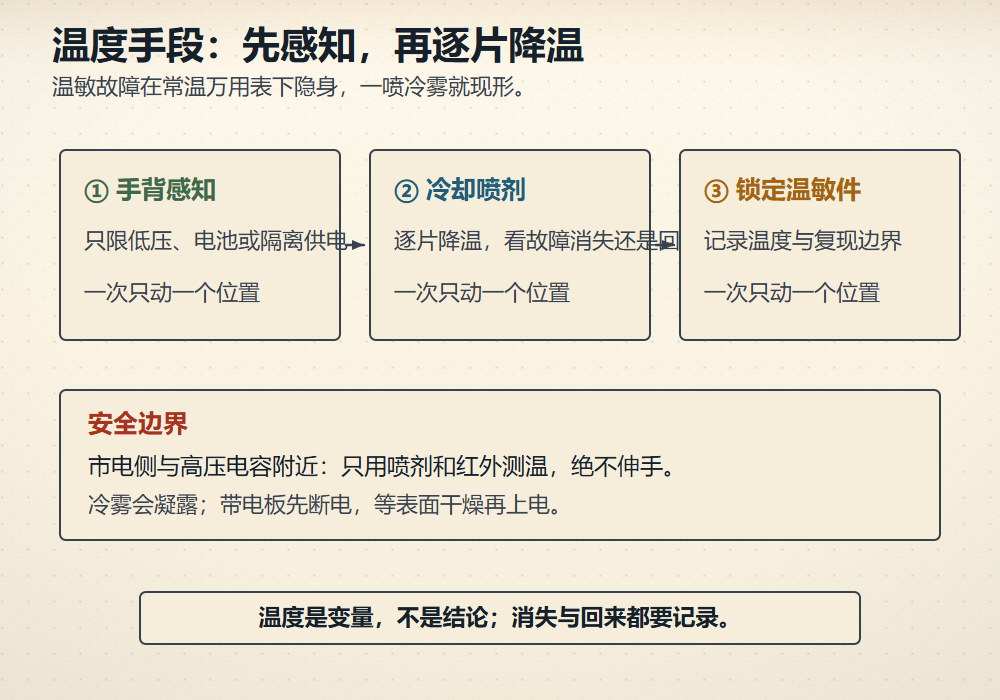
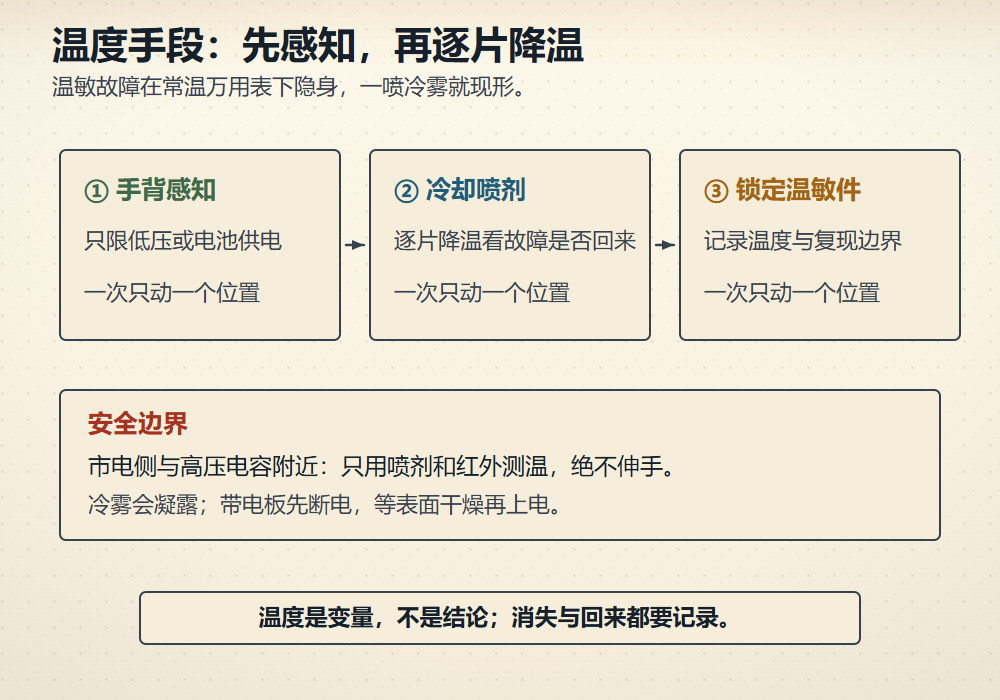
visual: shorten ch18 temp-spray labels to fit cards

Changed region(s): [[0.465, 0.33, 0.682, 0.36], [0.155, 0.33, 0.372, 0.36]]

diff --git a/scripts/visuals/scenes/handdrawn_wave4.py b/scripts/visuals/scenes/handdrawn_wave4.py
@@ -35,8 +35,8 @@ def temp_spray():
     parts = [header('温度手段：先感知，再逐片降温',
                     '温敏故障在常温万用表下隐身，一喷冷雾就现形。')]
     steps = [
-        ('① 手背感知', '只限低压、电池或隔离供电', GREEN),
-        ('② 冷却喷剂', '逐片降温，看故障消失还是回来', BLUE),
+        ('① 手背感知', '只限低压或电池供电', GREEN),
+        ('② 冷却喷剂', '逐片降温看故障是否回来', BLUE),
         ('③ 锁定温敏件', '记录温度与复现边界', AMBER),
     ]
     for i, (head, note, colour) in enumerate(steps):
